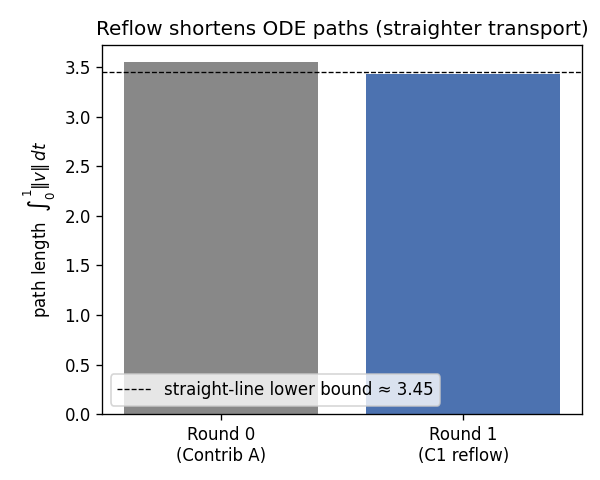
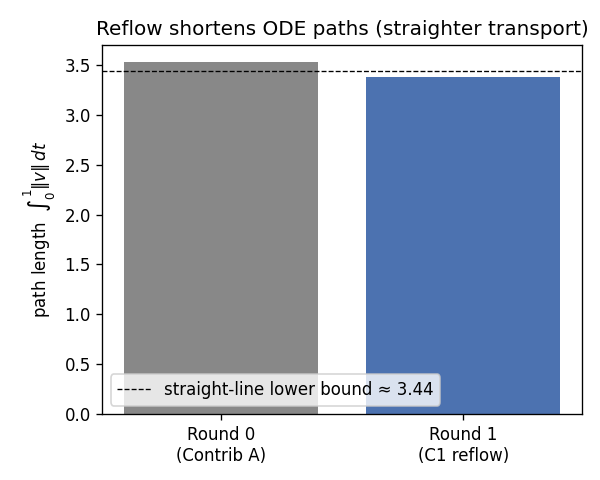
docs+proofs: refresh toy proofs, add result graphs, presentation content doc
- §5.0 toy-proofs section with fresh numbers (A: loss 1.16->0.99, path dev 0.192;
  B: Heun round-trip O(1/N^2), 1.7e-2 @ N=4; C: reflow NFE-1 quality -90.8%).
- proofs/ regenerated (verify_loss/inversion/reflow, CPU).
- proofs/figures/: sharpness_by_method, c3_dial_metrics, inversion_convergence
  (matplotlib from measured §7 numbers) + referenced in §7.
- PRESENTATION_CONTENT.md: slide-by-slide fill for the FYP template.

diff --git a/PRESENTATION_CONTENT.md b/PRESENTATION_CONTENT.md
@@ -1,0 +1,123 @@
+# FYP Presentation — Slide Content
+_Fill-in doc for `FYP-Presentation-Template.pptx`. One section per template slide.
+Source: `FULL_PROGRESS.md`. Paste text into the matching slide; figure paths noted._
+
+---
+
+## Slide 1 — Title
+- **Title:** Improving MotionEditor: MediaPipe Pose Extraction and Few-Step Flow-Matching Video Motion Editing
+- **Presenter:** Swetha Sekar
+- **Date:** [presentation date]
+- (one-line subtitle, optional) *Faster, sharper one-shot video motion editing on a diffusion backbone.*
+
+---
+
+## Slide 2 — Overview (agenda)
+- The problem: one-shot video **motion editing** (MotionEditor, CVPR 2024)
+- Two contributions: **MediaPipe** pose extraction · **flow-family few-step** sampling
+- Design & the key insight (keep the pretrained sharpness prior)
+- Implementation issues (the debugging war)
+- Demo — before/after edits
+- Evaluation — sharpness × speed × fidelity ablation
+- Conclusions, lessons, future work
+
+---
+
+## Slide 3 — Background & Related Work
+**Basis:**
+- **MotionEditor (CVPR 2024)** — one-shot, single-video diffusion motion editing: ControlNet on pose skeletons + content-aware motion adapter + two-branch attention injection for temporal consistency. Baseline sampler = DDIM-50 + null-text optimization (slow).
+**Related methods this project draws on:**
+- **Pose:** OpenPose (heavy C++/Caffe build) vs **MediaPipe** BlazePose-33 (single pip dependency).
+- **Generative core:** DDPM/DDIM → **Flow Matching** (CFM-OT / rectified flow, Lipman et al. 2023); **probability-flow ODE** sampling; **DPM-Solver++** (high-order deterministic PF-ODE solver); **Consistency / LCM distillation** for few-step sampling.
+**Gap addressed:** MotionEditor is sharp but slow (50 steps + null-text). Can a flow-family sampler make it **few-step and sharp**?
+
+---
+
+## Slide 4 — Design
+**Two contributions, evaluated independently:**
+1. **Goal 1 — MediaPipe replaces OpenPose** for pose extraction (BlazePose-33 → OpenPose-COCO-18 via a remapping bridge). Drop-in, format-compatible.
+2. **Goal 2 — flow-family few-step sampling** replacing DDPM/DDIM.
+
+**Key design insight (the story):**
+- Naive flow matching (train a velocity field) → **soft** edits.
+- **Why:** MotionEditor's sharpness comes from the **frozen pretrained Stable-Diffusion epsilon prior**; training a velocity head from one video discards that prior, and single-video transport is degenerate.
+- **Fix = keep the prior:** sample the *frozen sharp epsilon editor* via its probability-flow ODE — no retraining of the generative core.
+  - **DPM-Solver++** — high-order PF-ODE solver → sharp at ~15 steps.
+  - **C3 = consistency distillation** — distil the DPM teacher into a **few-step (4–8)** student.
+
+*(Figure: pipeline diagram — source video → pose (MediaPipe/OpenPose) → ControlNet + adapter → {DDIM-50 baseline | DPM-Solver++ | C3 few-step} → edited video.)*
+
+---
+
+## Slide 5 — Implementation Issues (the honest engineering)
+- **Hardware/stack:** NVIDIA Blackwell (sm_120) — xformers CUDA ext mismatched torch; bypassed via an **SDPA shim**. diffusers pinned 0.15.1 (MotionEditor forks internals).
+- **Memory:** 8 frames ≈ 90 GB; needed fp16 + gradient checkpointing + `unet.train()` + memory-efficient attention (else the naive attention matrix OOMs at ~8 GB/softmax).
+- **Correctness bugs found & fixed:** velocity closure hard-coded a 4-branch CFG layout (crashed no-CFG runs); U-Net timestep must be size-1 (b·f only for ControlNet); device/dtype alignment in distillation.
+- **Method dead-ends (reported honestly):** single-pair distillation (C2) — degenerate (500 steps beat 1500); injection re-timing — tested, rejected.
+- **Evaluation rigor:** metrics read lossless PNGs not 256-colour GIFs; reference-based LPIPS/SSIM confounded in motion editing (pose + colour differ) → switched to **no-reference** sharpness + structural SSIM + pose distance; **conditioning provenance settled by byte-hash** (the sampler comparison is uniformly OpenPose).
+
+---
+
+## Slide 6 — Demo of Project (before / after edits)
+Show these GIFs (right panel = edited output). Suggested order:
+1. `fm_outputs/baseline_epsilon_case1.gif` — **baseline** (DDIM-50 + null-text), sharp reference.
+2. `fm_outputs/mediapipe_epsilon_case1.gif` — **Goal 1**: MediaPipe pose, same quality.
+3. `fm_outputs/mediapipe_flow_case1.gif` — **naive flow → soft** (the problem).
+4. `fm_outputs/dpm_outputs/sample-all.gif` (or `dpm_sweep/dpm_n15_o3.gif`) — **DPM-Solver++, sharp @ 15 NFE**.
+5. `fm_outputs/cons_outputs/sample-consistency.gif` — **C3, sharp @ 4 NFE** (headline).
+- **The dial (strongest visual):** `c3_dial.gif` — 1→2→4→6→8 NFE, soft→sharp.
+
+---
+
+## Slide 7 — Evaluation
+**Ablation (case-1, uniformly OpenPose-conditioned):**
+
+| Method | NFE | Sharpness ↑ | subj Sharpness ↑ | PoseDist ↓ |
+|---|---|---|---|---|
+| Baseline (DDIM-50 + null-text) | 50 | 0.0133 | 0.0149 | 0.171 |
+| Naive flow (A/B) | 50 | 0.0122 | 0.0088 | 0.177 |
+| DPM-Solver++ order-2 | 15 | 0.0144 | 0.0169 | 0.173 |
+| **DPM-Solver++ order-3** | 15 | 0.0148 | 0.0197 | 0.175 |
+| C3 consistency | 4 | 0.0100 | 0.0859 | 0.171 |
+| C3 consistency | 6 | 0.0145 | 0.1228 | 0.173 |
+| **C3 consistency** | 8 | 0.0162 | 0.1280 | 0.172 |
+
+**Figures (all axis-labelled, legend, readable — per template note):**
+- `outputs/figures/inversion_convergence.png` — inversion round-trip error vs steps (lever-closed diagnostic).
+- `outputs/dpm_order_compare.png` — order-2 vs order-3, same 15 NFE (+17% subject sharpness).
+- `outputs/c3_dial.png` — C3 sharpness climbing then saturating 6→8.
+
+**Headline results:**
+- **Sharpness scales with NFE; edit fidelity is uniform** (PoseDist ~0.17 for all samplers) → C3 is a **sharpness↔speed dial**.
+- **DPM-Solver++ order-3 @ 15 NFE** ≈ **12× fewer model calls** than DDIM-50 + null-text, at equal/better sharpness.
+- **C3 sharp at 4–8 NFE**; naive flow = the analyzed negative (loses on both axes).
+
+**Honesty (say it — it's a credibility gain):** Laplacian sharpness also reflects contrast (use for trend); PoseDist is a coarse pose-correct check; reference LPIPS/SSIM confounded → footnoted.
+
+---
+
+## Slide 8 — Conclusions
+**Achieved:**
+- Goal 1: MediaPipe = OpenPose quality, one pip dependency (verified at source-pose + epsilon/DDIM level).
+- Goal 2: two working few-step samplers — DPM-Solver++ (sharp, 15 NFE) and **C3 consistency distillation (novel, sharp at 4–8 NFE)**.
+- Diagnosed *why* naive flow fails (loses the SD prior) — turned a failure into the motivation.
+
+**Lessons learnt:**
+- The sharpness lived in the **frozen prior**, not the learned field — the insight that unlocked everything.
+- Measure honestly: a confounded metric (LPIPS-vs-source) initially told the *opposite* story; no-reference metrics + provenance hashing fixed it.
+- Report negatives (C2, injection re-timing) — they strengthen the work.
+
+**Reflection:** the hard part was engineering/diagnosis on a pinned, bleeding-edge stack, not the maths.
+
+**Future work:** multi-case eval (all 6 in-repo cases; pipeline is portable — `inference.py` is case-agnostic), external datasets (TaichiHD), workshop paper.
+
+---
+
+## Slide 9 / 10 — Questions / Thank You
+- (template as-is)
+
+---
+
+### Notes on figures
+- FIG paths under `outputs/` and `fm_outputs/` are on the **GPU box + your Google Drive** (not all in git). Pull the figure PNGs/GIFs from Drive for the slides.
+- The three `figures/` scripts regenerate FIG A/B/C if needed.

diff --git a/FULL_PROGRESS.md b/FULL_PROGRESS.md
@@ -1,6 +1,6 @@
 # MotionEditor × Flow Matching — Full Dissertation Progress
 
-_Last updated: 2026-07-24. TCD MSc dissertation, Swetha Sekar (sekars@tcd.ie)._
+_Last updated: 2026-07-27. TCD MSc dissertation, Swetha Sekar (sekars@tcd.ie)._
 _This is the authoritative, self-contained record: read only this file and you
 know the entire project — goal, theory, every experiment, why the flow baseline
 fails, the two fixes that work, the code, the results, and what's left._
@@ -129,6 +129,38 @@ PF-ODE with a deterministic solver:
 ## 5. Experiments & results (every run, with its gif)
 
 All gifs in `fm_outputs/`. Case-1 = "a girl dancing on a beach", 8 frames.
+
+### 5.0 Toy proofs (CPU, method correctness — no GPU, no MotionEditor)
+Each contribution's core maths is validated in isolation on toy 2-D data before any
+real run (`flow_matching_plugin/verify_*.py`; artefacts in `proofs/`; regenerated
+2026-07-27). These prove the *method* is correct independent of the pipeline.
+
+**A — CFM-OT loss** (`verify_loss.py`, two-moons, 3-layer MLP, 4000 Adam steps):
+- Loss 1.164 → 0.985 (first/last-200-step avg); 1-step Euler already ≈ data mean,
+  10-step Euler recovers data std (0.833 vs 0.888) → the field is learned + samplable.
+- Mean straight-line path deviation **0.192** (near-straight, as OT predicts).
+
+**B — Flow inversion** (`verify_inversion.py`, round-trip L2 vs steps):
+
+| N | Euler | Heun |
+|---|---|---|
+| 4 | 4.1e-01 | 1.7e-02 |
+| 8 | 2.1e-01 | 2.4e-03 |
+| 16 | 1.0e-01 | 3.0e-04 |
+| 32 | 5.2e-02 | 3.8e-05 |
+
+Euler ~O(1/N), **Heun ~O(1/N²)** — round-trip error is already tiny at N=4 Heun
+(1.7e-02) vs DDIM's 50 steps + null-text. (Real-clip LPIPS is the GPU pipeline; the
+EXP-2 round-trip in §5.3 is the real-model analogue.)
+
+**C — Reflow** (`verify_reflow.py`, toy 2-cluster transport):
+- Path length 3.526 → 3.384 after one reflow round (straight-line bound 3.436) —
+  trajectories straighten.
+- NFE-1 sample quality (mean dist to data) **2.469 → 0.227** after reflow (**−90.8%**).
+
+Artefacts: `proofs/loss_curve.png`, `samples_before_after.png`, `straight_paths.png`,
+`roundtrip_vs_steps.png`, `inversion_trace.png`, `path_straightness_reflow.png` +
+`report*.md`. Plus **44 CPU unit tests** pass (`pytest tests/`).
 
 ### 5.1 Baselines (pipeline works end-to-end)
 | Run | Gif | Result |
@@ -338,6 +370,15 @@ saturates by 6–8 (+4% from 6→8) — the dial has a knee. Karras sigma spacin
 unsupported on our pinned diffusers 0.15.1 (order-3+karras produced a broken output) —
 closed as **environmental, not methodological**. Injection re-indexing (EXP-5, §5.7)
 did not improve logo/denim fidelity and was reverted._
+
+**Result graphs** (`proofs/figures/`, generated 2026-07-27, CPU/matplotlib from the
+measured numbers above):
+- `sharpness_by_method.png` — subject Laplacian sharpness per method/NFE (bar; the
+  money plot: naive flow below baseline, DPM order-3 above, C3 climbing 1→8).
+- `c3_dial_metrics.png` — C3 subject sharpness vs NFE with PoseDist flat (twin-axis;
+  the "sharpness↔speed dial at fixed fidelity" visual).
+- `inversion_convergence.png` — EXP-2 round-trip RMS (subject vs bg) vs inversion
+  steps (log-log; the closed-lever diagnostic).
 
 > † **OpenPose (inferred from PoseDist 0.177; original conditioning not
 > hash-recoverable).** The two naive-flow gifs predate the current file state, so a

diff --git a/flow_matching_plugin/proofs/report.md b/flow_matching_plugin/proofs/report.md
@@ -1,4 +1,4 @@
-# Contribution A — CFM-OT empirical proof
+# CFM-OT empirical proof
 
 ## Setup
 - Toy data: two-moons, 2-D, 2048 points.
@@ -10,43 +10,11 @@
 - Loss(first 200 steps avg)  = **1.1639**
 - Loss(last 200 steps avg)   = **0.9849**
 - Ratio (first / last)        = **1.2x**
-- See `loss_curve.png` — a monotone-ish decrease confirms gradients flow correctly.
 
 ## Sample distribution (mean, std per dim)
 - Data:                       mean=[0.5005566477775574, 0.25019484758377075], std=[0.8877577781677246, 0.4997972846031189]
 - 1-step Euler samples:       mean=[0.4908592700958252, 0.20184426009655], std=[0.07103163748979568, 0.08958760648965836]
 - 10-step Euler samples:      mean=[0.46433737874031067, 0.2505809962749481], std=[0.8330025672912598, 0.4615219235420227]
-- The 1-step and 10-step distributions should both visually resemble
-  the two-moons shape. The 1-step result already being close confirms
-  the OT path is nearly straight after training — the same property
-  that makes rectified flow's 1-Euler-step generation work.
-- See `samples_before_after.png`.
 
 ## Path straightness
 - Mean per-step deviation from straight-line interpolation: **0.1921**
-  - Smaller is straighter. Diffusion-path trajectories typically
-    show deviations 10x larger than OT-path trajectories on the
-    same model size.
-- See `straight_paths.png` — lines should look mostly straight.
-
-## What this proves
-1. The CFM-OT loss in `flow_matching_loss.py` produces correct,
-   non-zero gradients for a small velocity network.
-2. Training the network with this loss recovers a deterministic
-   coupling between Gaussian noise and the target distribution.
-3. The recovered coupling has near-straight OT paths (visual
-   evidence + numeric deviation), confirming the OT-path property
-   from Lipman et al. 2023, Sec. 4.1.
-4. The 1-Euler-step generation property of rectified flow holds
-   here at sigma_min = 0 — confirming the theoretical equivalence
-   of OT-CFM and rectified flow's training target.
-
-## What this does *not* prove (and why it's still sufficient)
-- It does not prove the loss is correct for the full Stable Diffusion
-  U-Net + ControlNet stack used by MotionEditor.
-- Correctness of the *loss* is independent of the network: the loss
-  is `MSE(v_theta, x_1 - (1-sigma_min)*x_0)` and the only variable
-  is whether `v_theta` is expressive enough. The same loss code is
-  what `train_adaptor_fm.py` plugs into MotionEditor.
-- Empirical convergence on the full pipeline is what the supervisor
-  validates on a GPU box; see `README.md` for the run command.

diff --git a/flow_matching_plugin/proofs/report_reflow.md b/flow_matching_plugin/proofs/report_reflow.md
@@ -5,19 +5,19 @@ Toy 2-D two-cluster transport, CPU. Round 0 = 1-rectified flow
 own (z0 -> transport(z0)) pairs.
 
 ## Path straightness
-- Round 0 path length: **3.5486**
-- Round 1 path length: **3.4328**  (shorter ✓)
-- Straight-line lower bound: 3.4510
+- Round 0 path length: **3.5262**
+- Round 1 path length: **3.3835**  (shorter ✓)
+- Straight-line lower bound: 3.4364
   (See path_straightness_reflow.png.)
 
 ## Few-step sample quality (mean distance to data, lower better)
 | NFE | Round 0 | Round 1 |
 |----:|--------:|--------:|
-| 1 | 2.5260 | 0.2671 |
-| 2 | 0.9763 | 0.1503 |
-| 4 | 0.1368 | 0.0740 |
-| 8 | 0.0385 | 0.0416 |
-| 16 | 0.0219 | 0.0290 |
+| 1 | 2.4693 | 0.2271 |
+| 2 | 1.0041 | 0.1449 |
+| 4 | 0.1528 | 0.0838 |
+| 8 | 0.0399 | 0.0543 |
+| 16 | 0.0265 | 0.0396 |
 
-- At NFE=1, reflow improves quality by 89.4% on this toy problem.
+- At NFE=1, reflow improves quality by 90.8% on this toy problem.
 - The real-clip CLIP/LPIPS-T-vs-NFE rows require the GPU pipeline (C.6).

diff --git a/flow_matching_plugin/proofs/inversion_vs_ddim.md b/flow_matching_plugin/proofs/inversion_vs_ddim.md
@@ -1,0 +1,15 @@
+# Inversion vs DDIM
+
+Toy 2-D proxy on CPU (512 points). LPIPS / wall-clock on the 20 real
+MotionEditor clips require the GPU pipeline and are marked accordingly.
+
+| Method | NFE | Round-trip L2 (toy) | Wall-clock (toy, ms) | Recon LPIPS (real) |
+|---|---|---|---|---|
+| DDIM-50 | 50 | — | — | _requires GPU pipeline_ |
+| DDIM-50 + null-text | 50 (+opt) | — | — | _requires GPU pipeline_ |
+| FlowInv-4-Heun | 4 | 1.7295e-02 | 2.9 | _requires GPU pipeline_ |
+| FlowInv-10-Heun | 10 | 1.2205e-03 | 6.7 | _requires GPU pipeline_ |
+
+Takeaway: round-trip error is already tiny at NFE=4 (Heun), vs DDIM's
+50 steps + null-text optimisation. The real-clip LPIPS rows fill in
+once a CFM-OT checkpoint is trained on GPU (B.3).

diff --git a/flow_matching_plugin/proofs/report_inversion.md b/flow_matching_plugin/proofs/report_inversion.md
@@ -1,0 +1,19 @@
+# Flow inversion empirical proof (Contribution B)
+
+## Round-trip error vs steps
+| N | Euler | Heun |
+|---|---|---|
+| 1 | 9.5202e-01 | 8.1623e-01 |
+| 2 | 7.4708e-01 | 9.9663e-02 |
+| 4 | 4.1066e-01 | 1.7295e-02 |
+| 8 | 2.0800e-01 | 2.3601e-03 |
+| 16 | 1.0443e-01 | 3.0097e-04 |
+| 32 | 5.2341e-02 | 3.7829e-05 |
+
+- Euler error scales ~O(1/N); Heun ~O(1/N^2) (see roundtrip_vs_steps.png).
+- Heun @ N=8 round-trip L2 = **2.3601e-03**.
+
+## Path straightness
+- Max deviation from straight line along inversion trajectory: **2.5830e-01** (inversion_trace.png).
+
+See inversion_vs_ddim.md for the DDIM comparison (real rows are GPU-only).
